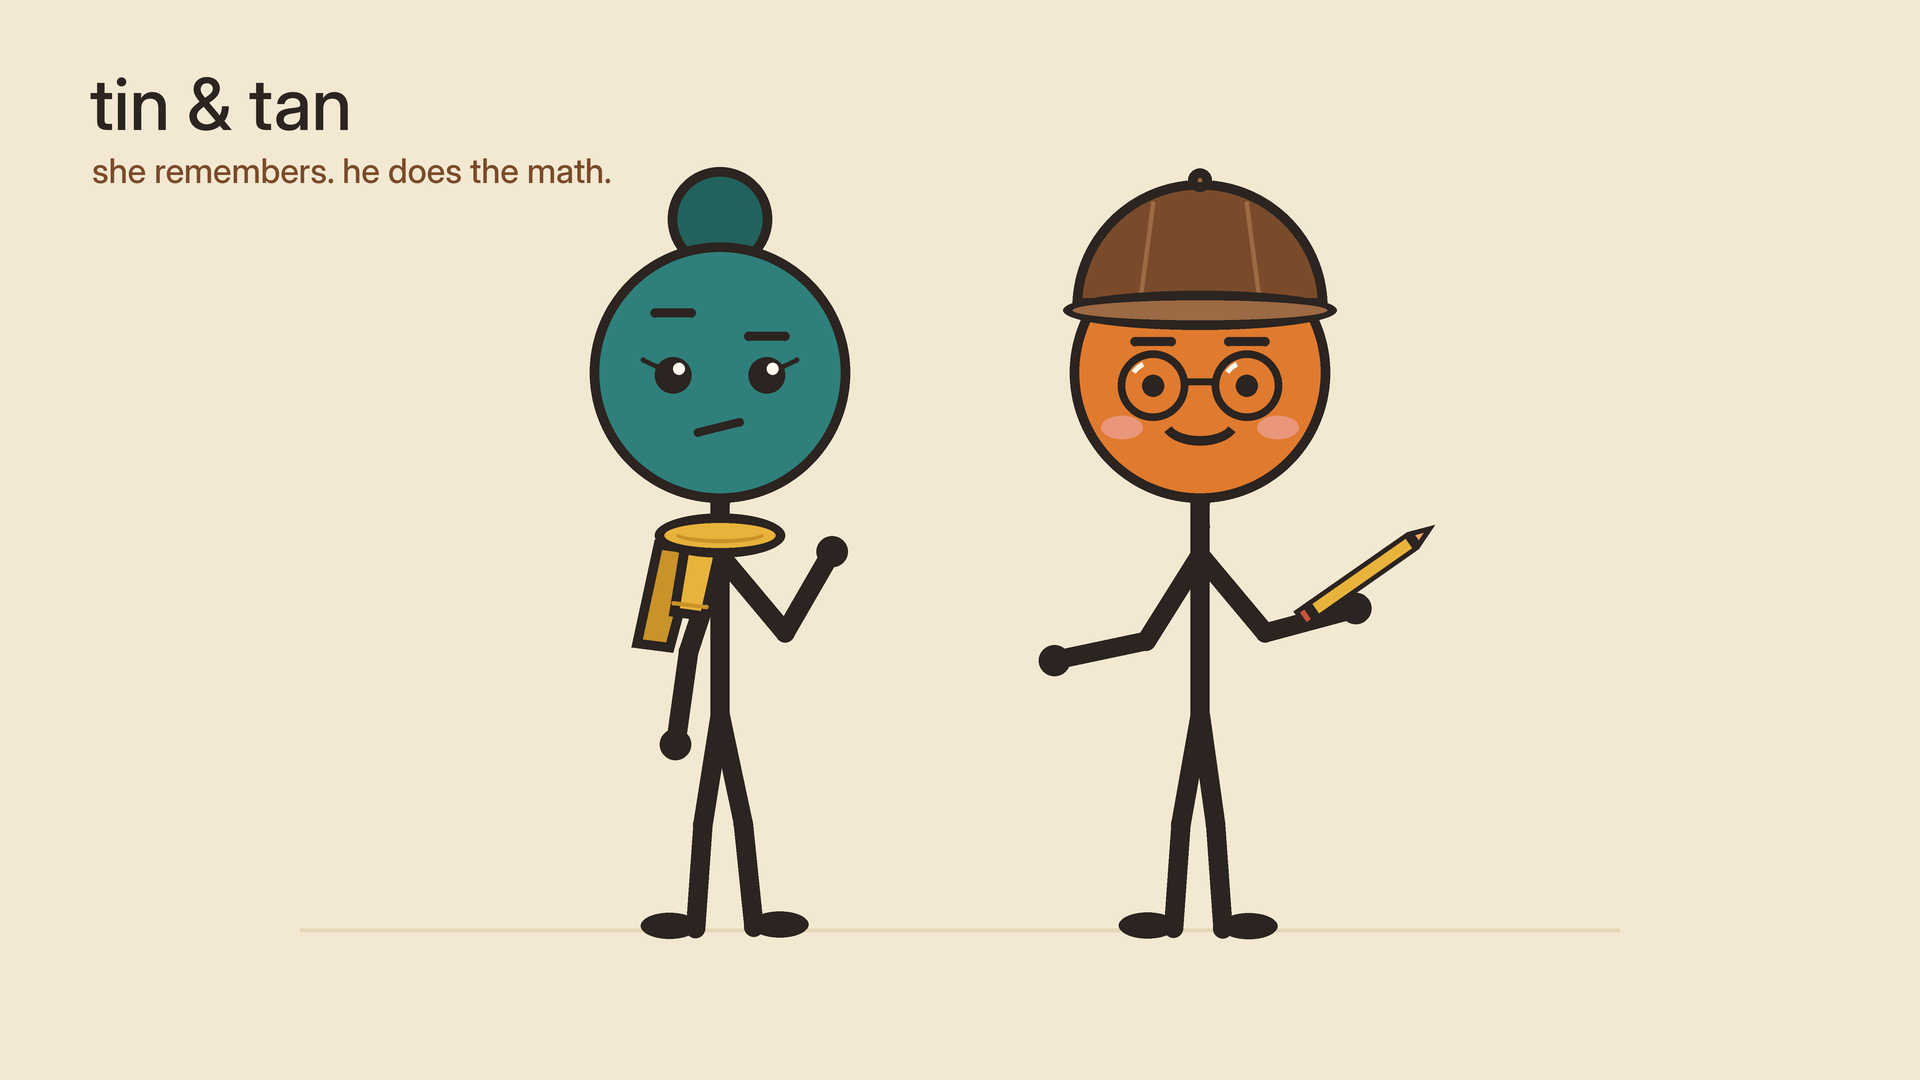
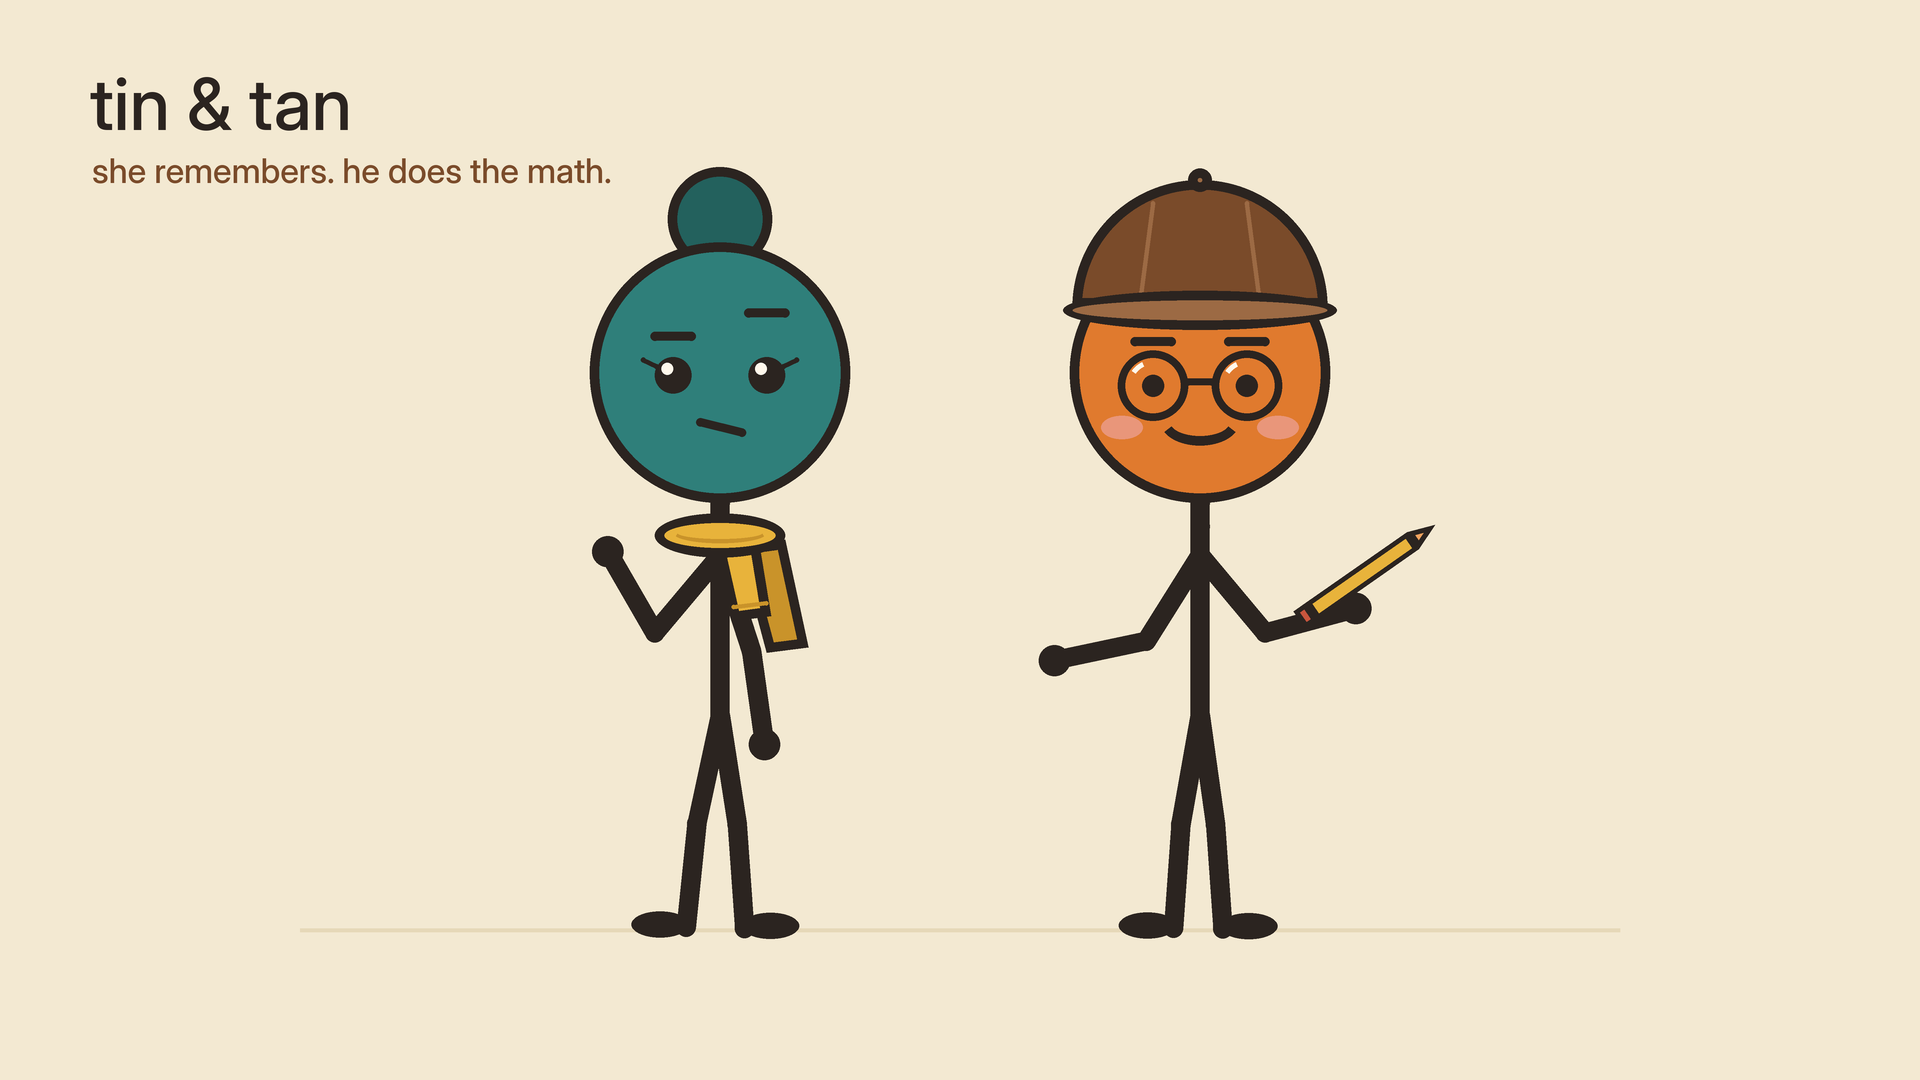
Tin & Tan listos para los prompts del generador: definición para generar y espejo
- Fichas de Tin y Tan con «Definición para generar» (cómo se dibujan, medidas en
  radios de cabeza, lado del gesto, lista de comprobación y fallos conocidos); el
  validador del generador ya las acepta.
- palitos.py 1.1: opción espejo para que en los planos de dos cada uno gesticule del
  lado contrario al otro; imagen principal rehecha con esa regla.
- Registro de los mensajes con el generador y con Keter (nodo del Cerebro).

Claude-Session: https://claude.ai/code/session_01518ZoQQiJjDBVkLwgLK8Pt

Changed region(s): [[0.3125, 0.4889, 0.4375, 0.8861], [0.3438, 0.275, 0.4062, 0.3667]]

diff --git a/video-studio/herramientas/palitos.py b/video-studio/herramientas/palitos.py
@@ -23,6 +23,7 @@ from pathlib import Path
 
 from PIL import Image, ImageDraw, ImageFont
 
+VERSION = "1.1"  # 1.0: diseño aprobado (2026-11-21) · 1.1: espejo
 SS = 3  # supermuestreo: se dibuja 3 veces más grande y se reduce (Pillow no suaviza las líneas)
 
 # ---------------------------------------------------------------- paleta del canal (años 70, papel crema)
@@ -131,11 +132,19 @@ def fuente(tam):
 
 # ---------------------------------------------------------------- primitivas (coordenadas ya multiplicadas por SS)
 class Pluma:
-    def __init__(self, lz, cx, cy, r):
+    def __init__(self, lz, cx, cy, r, espejo=False):
         self.d, self.cx, self.cy, self.r = lz.d, cx * SS, cy * SS, r * SS
+        self.espejo = espejo
 
     def p(self, x, y):
-        return (self.cx + x * self.r, self.cy + y * self.r)
+        return (self.cx + (-x if self.espejo else x) * self.r, self.cy + y * self.r)
+
+    def caja(self, x0, y0, x1, y1):
+        a, b = self.p(x0, y0), self.p(x1, y1)
+        return [min(a[0], b[0]), min(a[1], b[1]), max(a[0], b[0]), max(a[1], b[1])]
+
+    def angulos(self, desde, hasta):
+        return (180 - hasta, 180 - desde) if self.espejo else (desde, hasta)
 
     def linea(self, puntos, ancho=GROSOR, tinta="tinta"):
         pts = [self.p(*q) for q in puntos]
@@ -145,26 +154,24 @@ class Pluma:
             self.d.ellipse([q[0] - w / 2, q[1] - w / 2, q[0] + w / 2, q[1] + w / 2], fill=color(tinta))
 
     def circulo(self, x, y, radio, relleno=None, contorno="tinta", ancho=CONTORNO):
-        a, b = self.p(x - radio, y - radio), self.p(x + radio, y + radio)
-        self.d.ellipse([a, b], fill=color(relleno) if relleno else None,
+        self.d.ellipse(self.caja(x - radio, y - radio, x + radio, y + radio), fill=color(relleno) if relleno else None,
                        outline=color(contorno) if contorno else None, width=max(1, int(ancho * self.r)))
 
     def elipse(self, x, y, rx, ry, relleno=None, contorno="tinta", ancho=CONTORNO):
-        a, b = self.p(x - rx, y - ry), self.p(x + rx, y + ry)
-        self.d.ellipse([a, b], fill=color(relleno) if relleno else None,
+        self.d.ellipse(self.caja(x - rx, y - ry, x + rx, y + ry), fill=color(relleno) if relleno else None,
                        outline=color(contorno) if contorno else None, width=max(1, int(ancho * self.r)))
 
     def arco(self, x, y, rx, ry, desde, hasta, ancho=0.07, tinta="tinta"):
-        a, b = self.p(x - rx, y - ry), self.p(x + rx, y + ry)
-        self.d.arc([a, b], desde, hasta, fill=color(tinta), width=max(1, int(ancho * self.r)))
+        desde, hasta = self.angulos(desde, hasta)
+        self.d.arc(self.caja(x - rx, y - ry, x + rx, y + ry), desde, hasta, fill=color(tinta), width=max(1, int(ancho * self.r)))
 
     def poligono(self, puntos, relleno, contorno="tinta", ancho=CONTORNO):
         self.d.polygon([self.p(*q) for q in puntos], fill=color(relleno),
                        outline=color(contorno) if contorno else None, width=max(1, int(ancho * self.r)))
 
     def cuerda(self, x, y, radio, desde, hasta, relleno, contorno="tinta", ancho=CONTORNO):
-        a, b = self.p(x - radio, y - radio), self.p(x + radio, y + radio)
-        self.d.chord([a, b], desde, hasta, fill=color(relleno), outline=color(contorno),
+        desde, hasta = self.angulos(desde, hasta)
+        self.d.chord(self.caja(x - radio, y - radio, x + radio, y + radio), desde, hasta, fill=color(relleno), outline=color(contorno),
                      width=max(1, int(ancho * self.r)))
 
 
@@ -322,10 +329,10 @@ def lapiz(pl, x, y, angulo=-35, largo=0.95):
 
 
 # ---------------------------------------------------------------- cabeza (sirve sola para primeros planos)
-def cabeza(lz, pid, cx, cy, radio, expresion="feliz", vista="frente", mira=1):
+def cabeza(lz, pid, cx, cy, radio, expresion="feliz", vista="frente", mira=1, espejo=False):
     """Dibuja solo la cabeza con sus accesorios, centrada en (cx, cy) y con ese radio en píxeles."""
     pj = PERSONAJES[pid]
-    pc = Pluma(lz, cx, cy, radio)
+    pc = Pluma(lz, cx, cy, radio, espejo)
     if "rodete" in pj["accesorios"]:
         rodete(pc, vista, mira)
     pc.circulo(0, 0, 1.0, relleno=pj["cabeza"])
@@ -337,10 +344,13 @@ def cabeza(lz, pid, cx, cy, radio, expresion="feliz", vista="frente", mira=1):
 
 # ---------------------------------------------------------------- personaje completo
 def dibujar(lz, pid, x, suelo, alto, pose="parado", expresion="feliz", vista="frente", mira=1, viento=0.0,
-            objeto=True):
+            objeto=True, espejo=False):
     """Dibuja a Tin o Tan con los pies en (x, suelo) y una altura total de `alto` píxeles.
 
     mira: 1 mira a la derecha, -1 a la izquierda (solo en perfil). viento: puntas de la bufanda (-1 a 1).
+    espejo: dibuja la figura entera reflejada. Por defecto el brazo que hace el gesto queda a la DERECHA del cuadro;
+    con espejo=True queda a la IZQUIERDA. Regla de los planos de dos: cada uno gesticula del lado contrario al otro
+    (Tan, a la izquierda del cuadro, va con espejo=True; Tin, a la derecha, sin espejo).
     """
     if pid not in PERSONAJES:
         sys.exit(f"Personaje desconocido: {pid}. Hay: {', '.join(PERSONAJES)}")
@@ -348,7 +358,7 @@ def dibujar(lz, pid, x, suelo, alto, pose="parado", expresion="feliz", vista="fr
     R = alto / (2 + CUELLO + TORSO + MUSLO + PIERNA + 0.25)     # la gorra y el rodete suman ~0.25 R
     s = mira
     cabeza_y = -(MUSLO + PIERNA + TORSO + CUELLO + 1.0)
-    pl = Pluma(lz, x, suelo, R)
+    pl = Pluma(lz, x, suelo, R, espejo)
 
     cadera = (0, -(MUSLO + PIERNA))
     cuello_base = (0, cadera[1] - TORSO)
@@ -385,7 +395,7 @@ def dibujar(lz, pid, x, suelo, alto, pose="parado", expresion="feliz", vista="fr
 
     if "bufanda" in pj["accesorios"]:
         bufanda(pl, vista, s, cuello_base[1] - 0.05, viento)
-    cabeza(lz, pid, x, suelo + cabeza_y * R, R, expresion, vista, s)
+    cabeza(lz, pid, x, suelo + cabeza_y * R, R, expresion, vista, s, espejo)
 
     # objeto icónico en la mano derecha (vista de frente) o en la de adelante (perfil)
     if objeto and pj["objeto"] == "lapiz" and vista != "espalda":
@@ -448,7 +458,7 @@ def hoja_poses(pid, ruta):
 def hoja_principal(ruta):
     lz = Lienzo(1920, 1080)
     suelo_linea(lz, 930, 300, 1620)
-    dibujar(lz, "tan", 720, 930, 720, pose="pregunta", expresion="curiosidad", viento=0.4)
+    dibujar(lz, "tan", 720, 930, 720, pose="pregunta", expresion="curiosidad", viento=0.4, espejo=True)
     dibujar(lz, "tin", 1200, 930, 720, pose="explica", expresion="feliz")
     titulo(lz, "tin & tan", 90, 60, tam=72)
     lz.d.text((92 * SS, 150 * SS), "she remembers. he does the math.", font=fuente(34 * SS), fill=color("marron"))

diff --git a/video-studio/personajes/tin/ficha.md b/video-studio/personajes/tin/ficha.md
@@ -23,6 +23,29 @@ Para cualquier generador de imágenes, si alguna vez hace falta. El dibujo ofici
 Tin, an original simple stick-figure character drawn in clean flat 2D vector style: a big perfectly round warm orange head with a thick dark brown-black outline, a rounded brown cap with two light seams, a small button on top and a wide light-brown brim, small round dark-rimmed glasses with tiny white glints, dot eyes, short straight eyebrows, a small curved smile with soft pink cheeks, a thin straight dark stick body with rounded line ends, stick arms with small round dot hands, stick legs with small oval dark shoes, holding a short yellow pencil with a red eraser and an orange tip. Cream paper background.
 ```
 
+## Definición para generar
+
+**Cómo se dibuja:** no se genera con IA. Se dibuja con `video-studio/herramientas/palitos.py` (versión `1.1`), con
+`dibujar(lz, "tin", x, suelo, alto, pose, expresion, vista, mira, viento, objeto, espejo)` o, para primeros planos,
+`cabeza(...)`. Los colores, medidas, poses y expresiones son los de ese archivo; si se cambian, cambia el personaje y
+se registra en la bitácora (`creador-personajes/afinado/tin-y-tan.md`). Costo en créditos: 0.
+
+**Proporciones medibles** (en radios de cabeza, R): cabeza 2 R de diámetro · cuello 0,18 R · torso 1,45 R · brazo
+0,78 R + antebrazo 0,72 R · muslo 0,85 R + pierna 0,80 R · altura total ≈ 5,5 R (la cabeza es más de un tercio de la
+altura) · grosor de línea del cuerpo 0,15 R · contorno de cabeza y accesorios 0,075 R. Tin y Tan miden lo mismo:
+en un plano de los dos se dibujan con el mismo `alto`.
+
+**Con qué hace cada gesto:** por defecto el brazo que gesticula (saluda, señala, pregunta, piensa) queda a la **derecha del cuadro**, y en esa mano lleva el lápiz. En los planos de los dos, Tin va a la derecha del cuadro y **sin** espejo, así gesticula del lado contrario a Tan.
+
+**Lista de comprobación de cada imagen:** cabeza redonda naranja `#E07A2E` con contorno tinta `#2B2420` · gorra marrón con visera clara, botón y dos costuras · lentes redondos con brillo · cejas visibles bajo la visera · ojos de punto · mejillas rosadas cuando la expresión las lleva · cuerpo de palitos de un solo grosor · manos de punto · dos zapatos ovalados · lápiz amarillo con goma roja y punta naranja (salvo `objeto=False`) · fondo papel `#F3E9D2` · ningún texto encima del personaje.
+
+**Fallos conocidos del dibujo** (corregidos en el código; revisar que no vuelvan):
+
+- La visera tapaba las cejas (v1.0, corregido subiendo la gorra).
+- En «saluda» y «celebra» la mano quedaba escondida detrás de la cabeza (corregido en los ángulos de la pose).
+- En «piensa» la mano no llegaba al mentón (corregido); el lápiz cruza la cara en esa pose: si molesta, `objeto=False`.
+- En perfil, la visera se ve como una barra fina: revisar que se lea como gorra.
+
 ## Lo que nunca cambia
 
 - Cabeza redonda **naranja** (`#E07A2E`) con contorno tinta (`#2B2420`).

diff --git a/video-studio/personajes/tan/ficha.md b/video-studio/personajes/tan/ficha.md
@@ -19,6 +19,28 @@
 Tan, an original simple stick-figure character drawn in clean flat 2D vector style: a big perfectly round deep teal head with a thick dark brown-black outline, a round darker-teal hair bun on top tied with a mustard-yellow band, dot eyes with tiny eyelash flicks, short straight eyebrows, a small curved smile with soft pink cheeks, a chunky mustard-yellow knitted scarf wrapped around her neck with two ends hanging on one side, a thin straight dark stick body with rounded line ends, stick arms with small round dot hands, stick legs with small oval dark shoes. Cream paper background.
 ```
 
+## Definición para generar
+
+**Cómo se dibuja:** no se genera con IA. Se dibuja con `video-studio/herramientas/palitos.py` (versión `1.1`), con
+`dibujar(lz, "tan", x, suelo, alto, pose, expresion, vista, mira, viento, objeto, espejo)` o, para primeros planos,
+`cabeza(...)`. Los colores, medidas, poses y expresiones son los de ese archivo; si se cambian, cambia el personaje y
+se registra en la bitácora (`creador-personajes/afinado/tin-y-tan.md`). Costo en créditos: 0.
+
+**Proporciones medibles** (en radios de cabeza, R): cabeza 2 R de diámetro · cuello 0,18 R · torso 1,45 R · brazo
+0,78 R + antebrazo 0,72 R · muslo 0,85 R + pierna 0,80 R · altura total ≈ 5,5 R (la cabeza es más de un tercio de la
+altura) · grosor de línea del cuerpo 0,15 R · contorno de cabeza y accesorios 0,075 R. Tin y Tan miden lo mismo:
+en un plano de los dos se dibujan con el mismo `alto`.
+
+**Con qué hace cada gesto:** por defecto el brazo que gesticula queda a la **derecha del cuadro**. En los planos de los dos, Tan va a la izquierda del cuadro y **con `espejo=True`**: gesticula hacia la izquierda, del lado contrario a Tin, y las puntas de la bufanda pasan al otro lado para no taparle el brazo.
+
+**Lista de comprobación de cada imagen:** cabeza redonda verde azulado `#2F7F7A` con contorno tinta · rodete arriba, verde azulado oscuro, con cinta mostaza · pestañas cortas en los ojos abiertos (no deben parecer cejas inclinadas) · bufanda mostaza enrollada al cuello con dos puntas · cuerpo de palitos de un solo grosor · manos de punto · dos zapatos ovalados · fondo papel `#F3E9D2` · ningún texto encima del personaje.
+
+**Fallos conocidos del dibujo** (corregidos en el código; revisar que no vuelvan):
+
+- Las pestañas largas e inclinadas se leían como cejas de enojo (corregido: cortas y casi horizontales).
+- La bufanda se veía rígida, como dos reglas, y en perfil salía recta hacia atrás como un moño (corregido: rollo redondeado y puntas que caen).
+- Con el brazo del lado de las puntas, la bufanda tapa el brazo: usar `espejo` para que el gesto quede del otro lado.
+
 ## Lo que nunca cambia
 
 - Cabeza redonda **verde azulado** (`#2F7F7A`) con contorno tinta (`#2B2420`).

diff --git a/video-studio/COORDINACION.md b/video-studio/COORDINACION.md
@@ -44,3 +44,6 @@
 | 2026-11-21 | Equipo → Keter | Confirmación de las reglas aplicadas (no llegó: falta autorización del dueño) |
 | 2026-11-21 | Equipo → Generador | Presentación, reglas de coordinación, Tin & Tan aprobados, nombre del canal (entregado) |
 | 2026-11-21 | Equipo → Keter | Las 27 reglas de `REGLAS_CEREBRO.md` para guardar en el Cerebro (entregado) |
+| 2026-11-21 | Generador → Equipo | Formato para videos hechos con código (`--redes`, `prompt_video_redes.md`, «Definición para generar» en las fichas); no une mi rama sin el sí del dueño (trae `.claude/settings.json` y `CLAUDE.md`) |
+| 2026-11-21 | Keter → Equipo | Reglas guardadas en el nodo `reglas-del-estudio-de-video`; corregidos `canal-de-munecos-de-palitos-con-rankings` y `reglas-de-produccion-de-video` |
+| 2026-11-21 | Equipo → Generador | Fichas de Tin y Tan con «Definición para generar»; regla de lados del gesto (`espejo`) |

diff --git a/video-studio/REGLAS_CEREBRO.md b/video-studio/REGLAS_CEREBRO.md
@@ -3,7 +3,8 @@
 > Pedido del dueño (2026-11-21), textual: *«Todas esas reglas deben quedar en el cerebro»*.
 > Es la lista consolidada de reglas y decisiones del dueño sobre producción de video. Se le envía a la conversación
 > de Keter para que la cargue en el Cerebro. Cada vez que se agrega una regla, se actualiza este archivo y se reenvía.
-> Fuente de cada regla entre paréntesis.
+> Fuente de cada regla entre paréntesis. En el Cerebro está en el nodo `reglas-del-estudio-de-video` (guardado por Keter el
+> 2026-11-21); si cambia esta lista, se le manda el cambio a Keter.
 
 ## Organización
 

diff --git a/video-studio/canales/nostalgia-tin-y-tan/DESIGN.md b/video-studio/canales/nostalgia-tin-y-tan/DESIGN.md
@@ -30,6 +30,7 @@ Nada de degradados de fondo (cap. 11, regla 7). Un color de acento por plano.
 ## Personajes
 
 - **Tan** a la izquierda del cuadro cuando están juntos (abre con la pregunta); **Tin** a la derecha (responde).
+- **Cada uno gesticula del lado contrario al otro:** Tan con `espejo=True`, Tin sin espejo.
 - Plano héroe de los dos: `referencias/principal_tin_y_tan.png` de cada ficha.
 - Expresiones y poses: solo las de `palitos.py` (`EXPRESIONES`, `POSES`).
 
